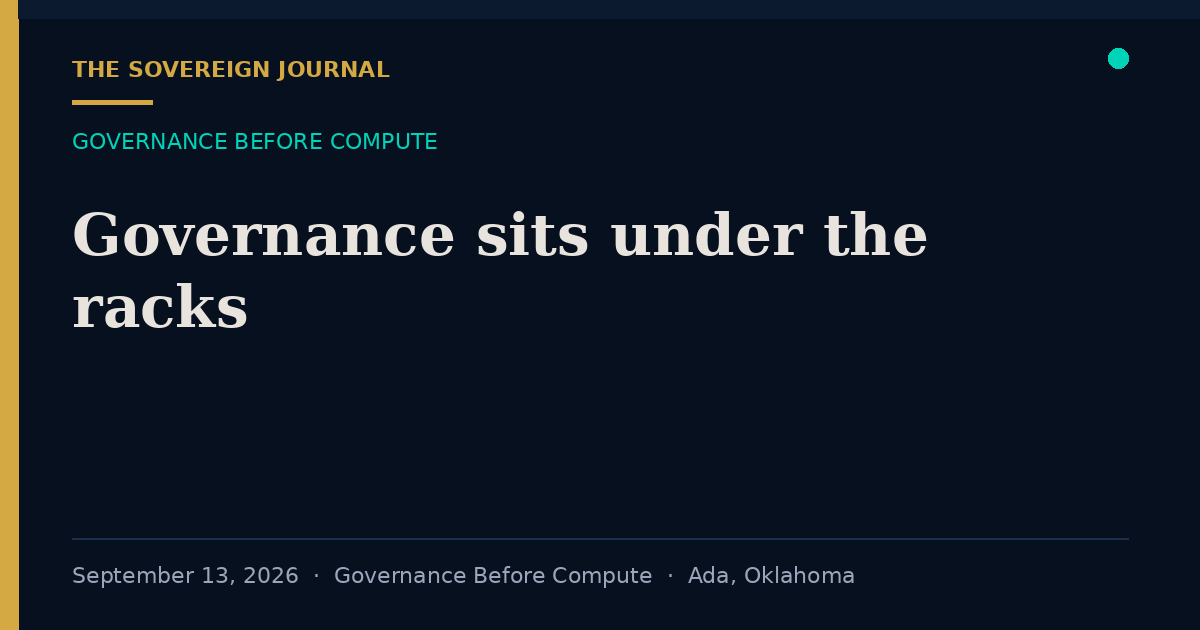
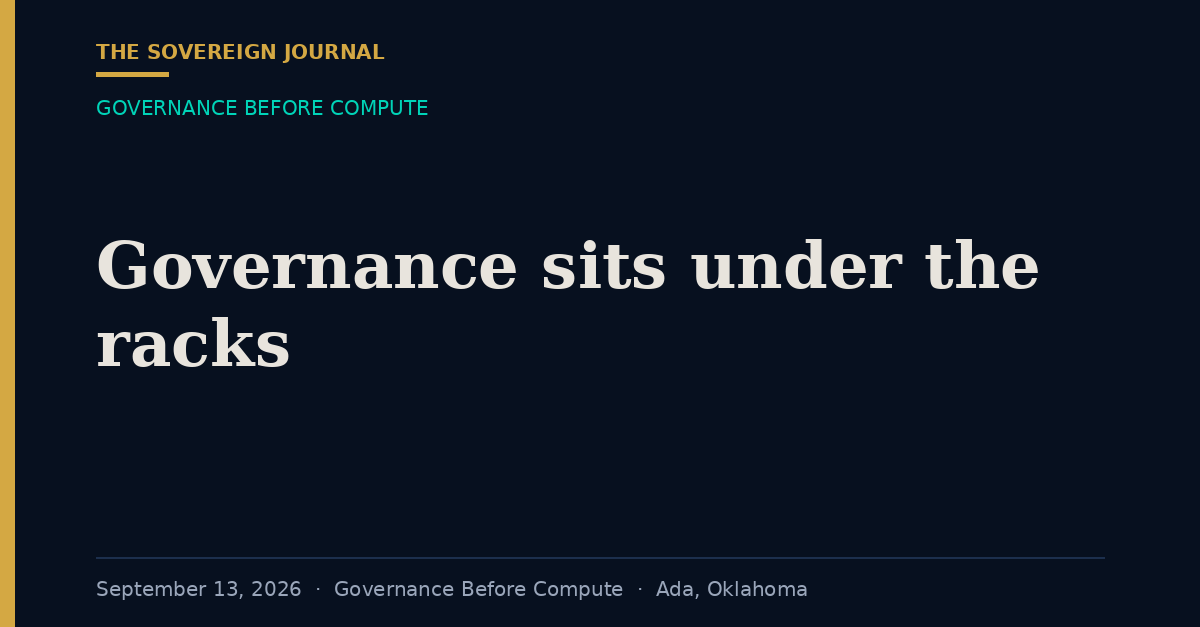
Fix cropped share cards and upload LinkedIn thumbnails
The featured image used object-fit cover plus a max-height, so
phones showed only the footer of the title card. Recenter the
1200x627 composition and display the full card.

LinkedIn's Posts API does not scrape og:image. Upload the card
via the Images API and set article.thumbnail so the feed card
is the journal title, not a blank or a random photo.

diff --git a/src/styles/global.css b/src/styles/global.css
@@ -39,7 +39,7 @@ main { flex: 1; padding: 2.5rem 0 4rem; }
 .hero .rule { width: 4rem; height: 2px; background: var(--gold); margin: 1.75rem 0 2.5rem; }
 
 .entry { display: grid; grid-template-columns: 10.5rem 1fr; gap: 1.15rem; align-items: center; padding: 1.5rem 0; border-top: 1px solid var(--line); color: inherit; }
-.entry img { width: 100%; aspect-ratio: 1200 / 630; object-fit: cover; border-radius: 8px; border: 1px solid var(--line); background: var(--navy-2); }
+.entry img { width: 100%; height: auto; aspect-ratio: 1200 / 627; object-fit: contain; object-position: center; display: block; border-radius: 8px; border: 1px solid var(--line); background: var(--navy-2); }
 .entry:last-child { border-bottom: 1px solid var(--line); }
 .entry time { font-size: 0.82rem; color: var(--gold); font-weight: 500; }
 .entry h2 { font-family: var(--serif); font-size: 1.45rem; margin: 0.35rem 0 0.4rem; line-height: 1.25; font-weight: 600; color: var(--text); }
@@ -112,7 +112,7 @@ footer .wrap { padding: 1.5rem 0; font-size: 0.85rem; color: var(--muted); displ
 .meta { display: flex; flex-wrap: wrap; gap: 0.35rem 0.85rem; font-size: 0.82rem; color: var(--muted); font-weight: 500; }
 .meta time { color: var(--gold); }
 .entry.featured { border-top: 0; padding-top: 0; grid-template-columns: 1fr; }
-.entry.featured img { max-height: 18rem; }
+.entry.featured img { max-height: none; }
 .entry.featured h2 { font-size: clamp(1.7rem, 4vw, 2.2rem); }
 .entry h3 { font-family: var(--serif); font-size: 1.15rem; margin: 0.25rem 0 0; font-weight: 600; color: var(--text); }
 

diff --git a/scripts/og.py b/scripts/og.py
@@ -1,5 +1,5 @@
 #!/usr/bin/env python3
-"""Typographic Open Graph cards for The Sovereign Journal. Navy, gold, no stock photos."""
+"""Typographic Open Graph cards. 1200x627, title in the LinkedIn-safe center."""
 
 from __future__ import annotations
 
@@ -14,14 +14,16 @@ POSTS = ROOT / "src" / "content" / "posts"
 OUT = ROOT / "public" / "og"
 
 NAVY = (7, 16, 31, 255)
-NAVY2 = (12, 26, 48, 255)
-LINE = (28, 47, 77, 255)
 GOLD = (212, 168, 67, 255)
 TEAL = (0, 212, 184, 255)
 TEXT = (232, 228, 221, 255)
 MUTED = (154, 166, 186, 255)
+LINE = (28, 47, 77, 255)
 
-W, H = 1200, 630
+# LinkedIn's documented link-preview size. Keep all type inside a 10% inset
+# so mobile crops and the on-site featured card still show the title.
+W, H = 1200, 627
+INSET = 96
 SERIF = "/usr/share/fonts/truetype/dejavu/DejaVuSerif-Bold.ttf"
 SANS = "/usr/share/fonts/truetype/dejavu/DejaVuSans.ttf"
 SANS_B = "/usr/share/fonts/truetype/dejavu/DejaVuSans-Bold.ttf"
@@ -41,7 +43,7 @@ def wrap(draw: ImageDraw.ImageDraw, text: str, font: ImageFont.FreeTypeFont, max
             current = word
     if current:
         lines.append(current)
-    return lines[:4]
+    return lines[:3]
 
 
 def parse_frontmatter(raw: str) -> dict[str, str]:
@@ -57,40 +59,44 @@ def parse_frontmatter(raw: str) -> dict[str, str]:
     return data
 
 
-def card(title: str, kicker: str, footer: str, dest: Path) -> None:
-    img = Image.new("RGBA", (W, H), NAVY)
-    draw = ImageDraw.Draw(img)
-    draw.rectangle((0, 0, 18, H), fill=GOLD)
-    draw.rectangle((18, 0, W, 18), fill=NAVY2)
-    draw.ellipse((W - 92, 48, W - 72, 68), fill=TEAL)
-
-    brand = ImageFont.truetype(SANS_B, 22)
-    kicker_font = ImageFont.truetype(SANS, 22)
-    title_font = ImageFont.truetype(SERIF, 58)
-    foot_font = ImageFont.truetype(SANS, 22)
-
-    draw.text((72, 56), "THE SOVEREIGN JOURNAL", font=brand, fill=GOLD)
-    draw.rectangle((72, 100, 152, 104), fill=GOLD)
-    draw.text((72, 128), kicker.upper(), font=kicker_font, fill=TEAL)
-
-    lines = wrap(draw, title, title_font, W - 150)
-    y = 200
-    for line in lines:
-        draw.text((72, y), line, font=title_font, fill=TEXT)
-        y += 72
-
-    draw.rectangle((72, H - 92, W - 72, H - 91), fill=LINE)
-    draw.text((72, H - 68), footer, font=foot_font, fill=MUTED)
-    dest.parent.mkdir(parents=True, exist_ok=True)
-    img.convert("RGB").save(dest, "PNG", optimize=True)
-
-
 def fmt_date(value: str) -> str:
     try:
         dt = datetime.strptime(value, "%Y-%m-%d").replace(tzinfo=timezone.utc)
         return dt.strftime("%B %-d, %Y")
     except ValueError:
         return value
+
+
+def card(title: str, kicker: str, footer: str, dest: Path) -> None:
+    img = Image.new("RGBA", (W, H), NAVY)
+    draw = ImageDraw.Draw(img)
+    draw.rectangle((0, 0, 14, H), fill=GOLD)
+
+    brand = ImageFont.truetype(SANS_B, 20)
+    kicker_font = ImageFont.truetype(SANS, 20)
+    title_size = 56 if len(title) > 52 else 64
+    title_font = ImageFont.truetype(SERIF, title_size)
+    foot_font = ImageFont.truetype(SANS, 20)
+
+    max_w = W - INSET * 2
+    lines = wrap(draw, title, title_font, max_w)
+    line_h = title_size + 14
+    block_h = len(lines) * line_h
+    title_y = (H - block_h) // 2 - 8
+
+    draw.text((INSET, 40), "THE SOVEREIGN JOURNAL", font=brand, fill=GOLD)
+    draw.rectangle((INSET, 72, INSET + 72, 76), fill=GOLD)
+    draw.text((INSET, 96), kicker.upper(), font=kicker_font, fill=TEAL)
+
+    y = title_y
+    for line in lines:
+        draw.text((INSET, y), line, font=title_font, fill=TEXT)
+        y += line_h
+
+    draw.rectangle((INSET, H - 70, W - INSET, H - 69), fill=LINE)
+    draw.text((INSET, H - 50), footer, font=foot_font, fill=MUTED)
+    dest.parent.mkdir(parents=True, exist_ok=True)
+    img.convert("RGB").save(dest, "PNG", optimize=True)
 
 
 def main() -> None:
